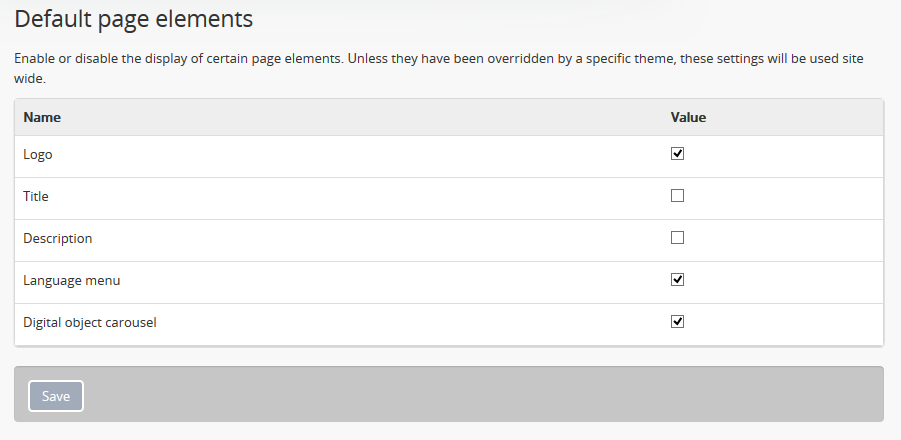
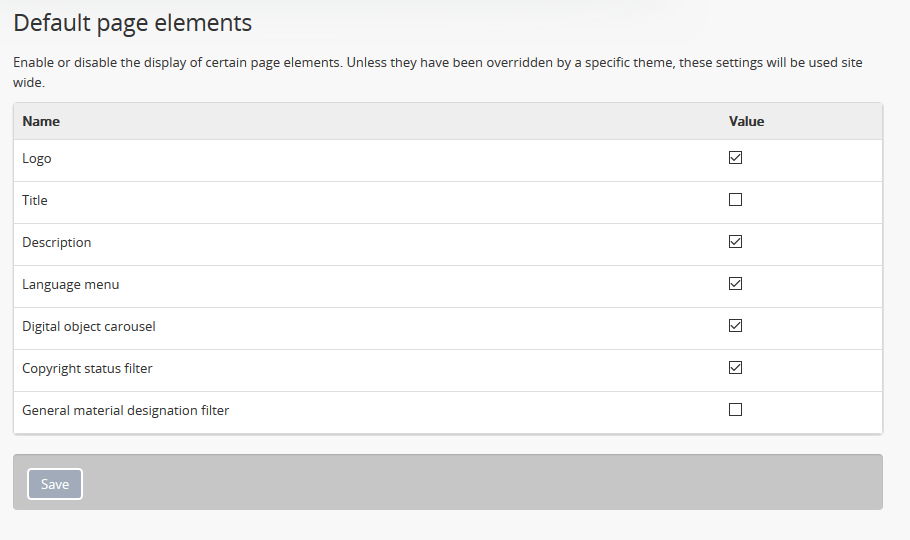
Update page element settings, refs #9202

diff --git a/user-manual/administer/settings.rst b/user-manual/administer/settings.rst
@@ -619,11 +619,27 @@ The digital object :term:`carousel` appears when there are multiple
    :width: 80%
    :alt: An image of the carousel shown at the top of a description
 
-When unchecked, these elements will be hidden from display after you save the
-default page element settings. This can be useful for customization - for
+The Copyright status filter and the General material designation filter appear
+as filters available in the Advanced search panel. For more information on
+using this panel, see: :ref:`advanced-search`. The Copyright status filter
+relates to PREMIS rights added to descriptions - for more information, see:
+:ref:`rights`. The General material designation filter is derived from the
+Canadian Rules for Archival Description (:ref:`RAD <rad-template>`) standard,
+and is only used on the RAD template.
+
+.. image:: images/search-filters-hide.*
+   :align: center
+   :width: 80%
+   :alt: An image of the Copyright status and GMD filters in the advanced
+         search panel
+
+When unchecked, the above elements will be hidden from display after you save
+the default page element settings. This can be useful for customization - for
 example, if you are not translating the content of your website and do not
 need the language menu, unchecking it here will remove it from the AtoM
-:term:`header bar`.
+:term:`header bar`. Similarly, if you are not using the Canadian :ref:`RAD
+<rad-template>` standard as your :ref:`default-template`, you might want to
+hide the General material designation filter from the advanced search panel.
 
 .. SEEALSO::
 
